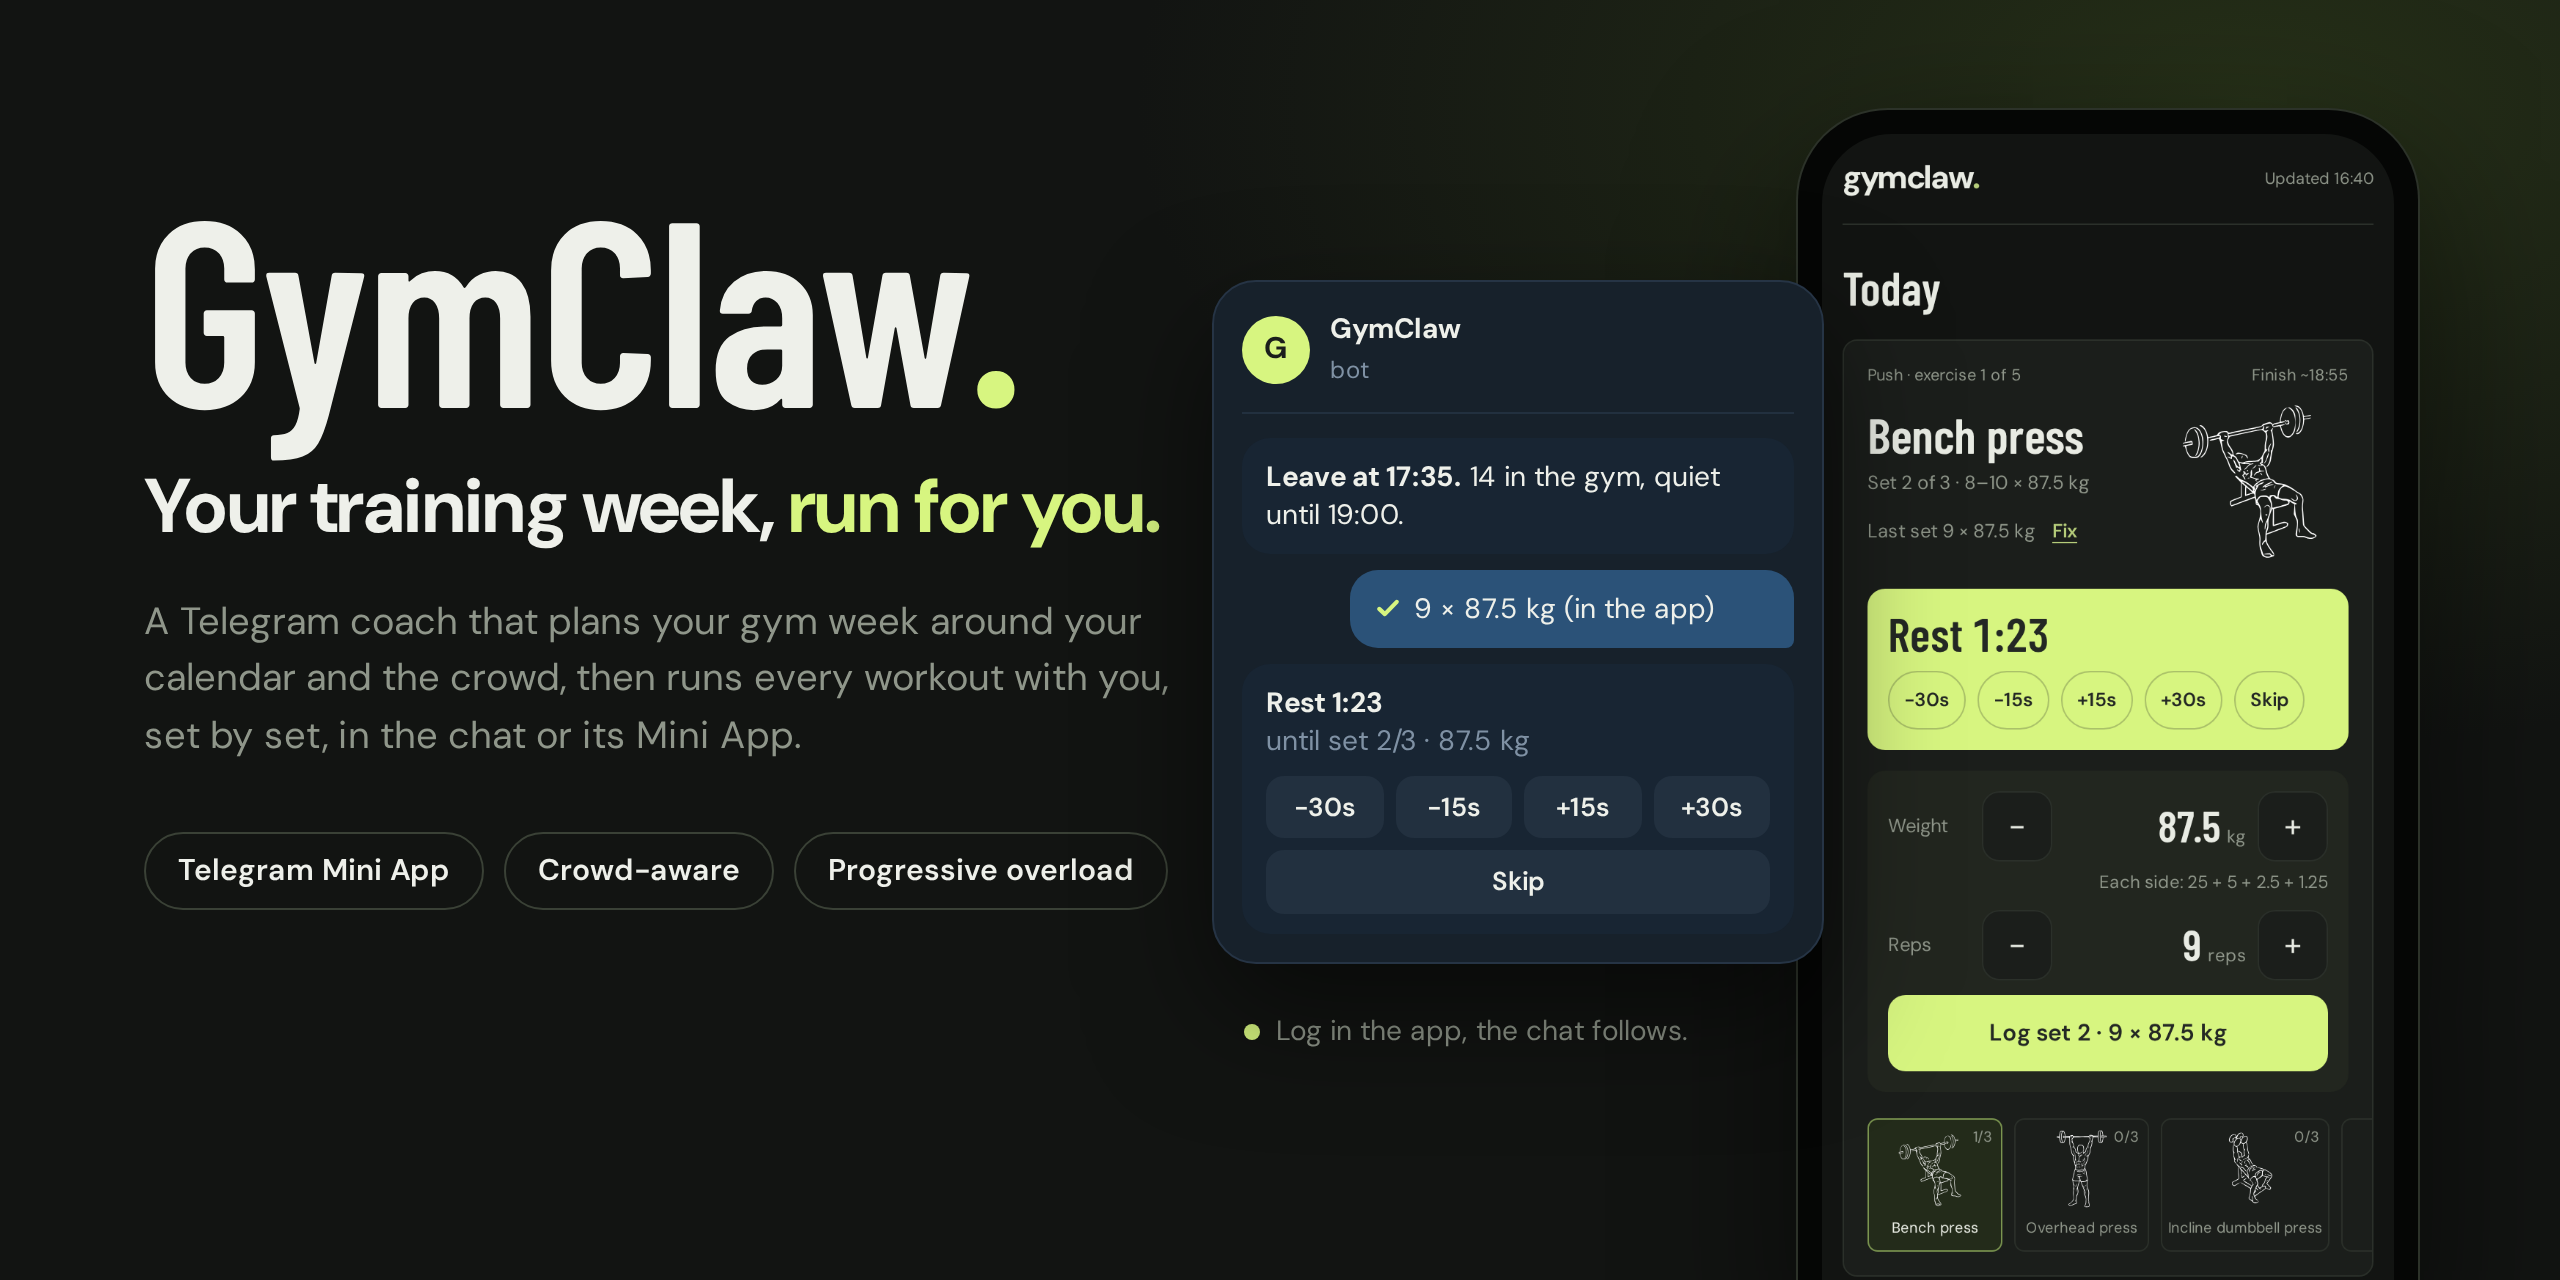
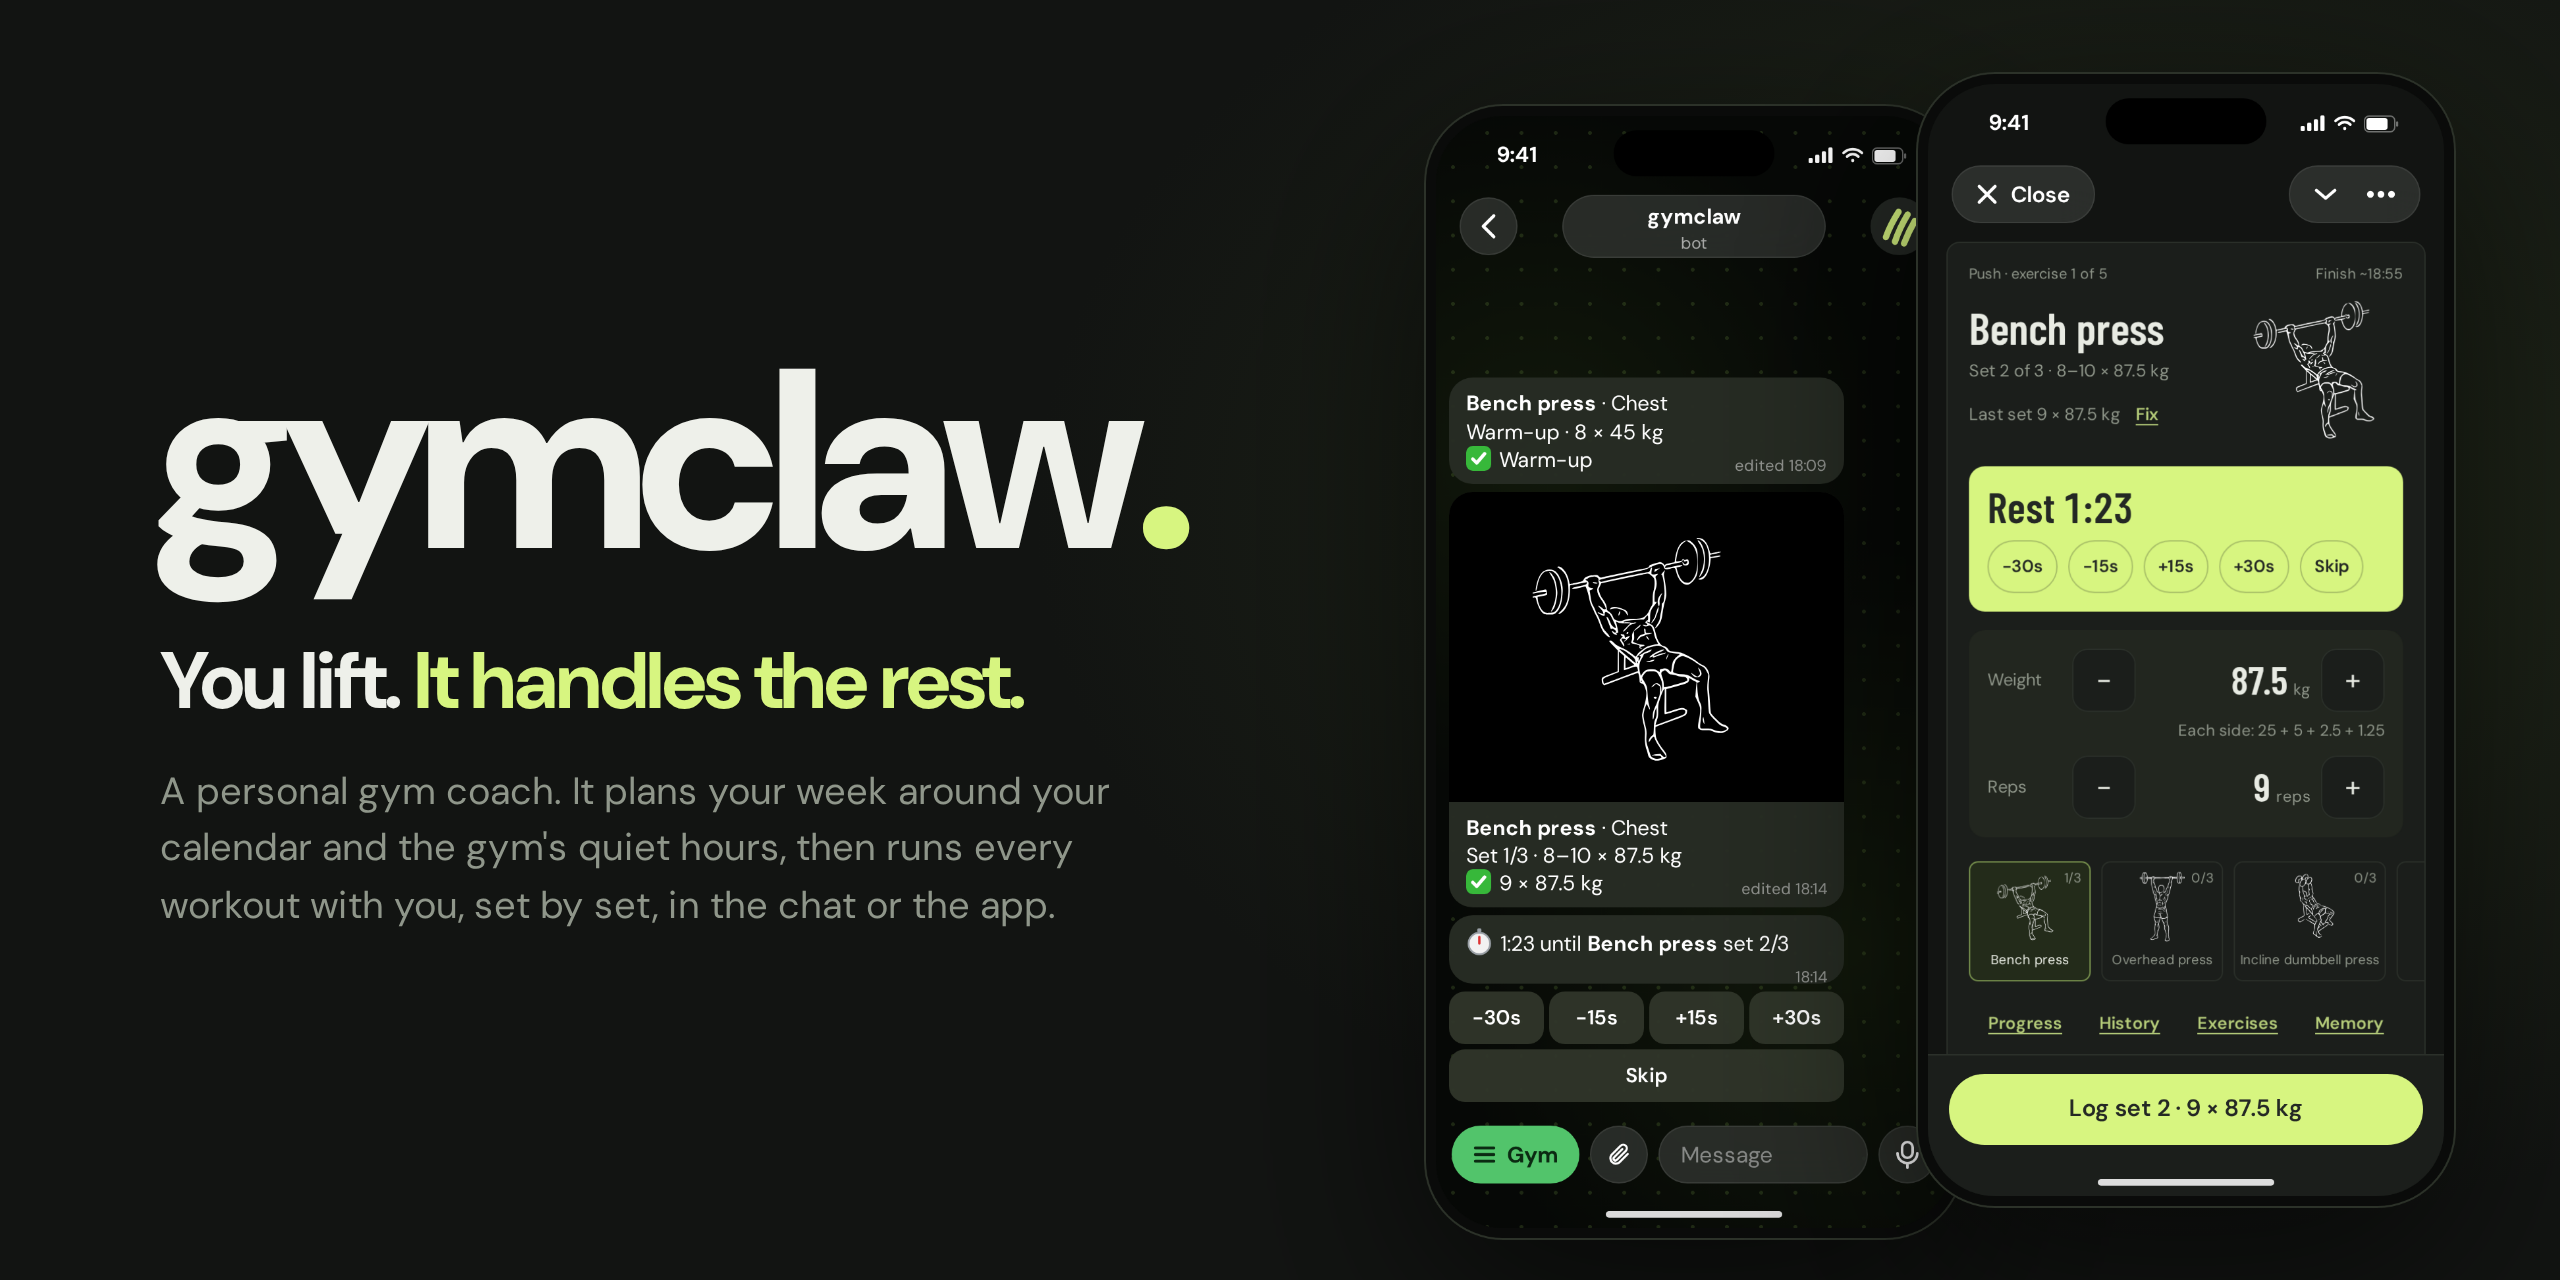
docs(readme): lowercase gymclaw, new tagline, real-looking phone screens
The banner and README screens now show the chat and the app as they look in
Telegram today (no browser header, Telegram's own Close and main button), with
the tagline "You lift. It handles the rest." scripts/shot gets --transparent.

Changed region(s): [[0.0625, 0.0625, 0.9688, 1.0], [0.75, 0.0312, 0.9688, 0.2188]]

diff --git a/assets/hero.html b/assets/hero.html
@@ -1,67 +1,34 @@
 <!doctype html>
 <!-- The README banner (assets/hero.png). Render it at 2x from the repo root:
      scripts/shot "file://$PWD/assets/hero.html" assets/hero.png 1280 640 --scale 2
-     The phone shows assets/screens/live.png, the README's own screenshot. -->
-<html lang="en"><head><meta charset="utf-8"><title>GymClaw Banner</title>
+     The phones are the README's own screens in assets/screens/. -->
+<html lang="en"><head><meta charset="utf-8"><title>gymclaw Banner</title>
 <style>
-@font-face { font-family: 'Barlow Condensed'; src: url('../web/fonts/BarlowCondensed-SemiBold.ttf'); font-weight: 600; }
 @font-face { font-family: 'DM Sans'; src: url('../web/fonts/DM-Sans.ttf'); font-weight: 100 900; }
-:root { --paper: #121412; --ink: #eef0ea; --muted: #8f968a; --line: #2b302a; --lime: #d7f580;
-  --tg: #17212b; --tg-bubble: #182533; --tg-out: #2b5278; --tg-button: #22303f; }
+:root { --paper: #121412; --ink: #eef0ea; --muted: #8f968a; --lime: #d7f580; }
 * { box-sizing: border-box; }
 html, body { margin: 0; width: 1280px; height: 640px; overflow: hidden; }
-body { position: relative; background: radial-gradient(900px 520px at 88% 8%, #263018 0%, transparent 62%), var(--paper);
-  color: var(--ink); font: 16px/1.4 'DM Sans', sans-serif; }
+body { position: relative; color: var(--ink); font: 16px/1.4 'DM Sans', sans-serif;
+  background: radial-gradient(760px 520px at 82% 40%, #222a19 0%, transparent 70%), var(--paper); }
 
-.copy { position: absolute; left: 72px; top: 92px; width: 520px; }
-.wordmark { font: 600 132px/0.9 'Barlow Condensed', sans-serif; letter-spacing: -1px; margin: 0; }
-.wordmark i { color: var(--lime); font-style: normal; }
-.tagline { font-size: 38px; font-weight: 700; letter-spacing: -0.8px; line-height: 1.1; margin: 22px 0 0; }
+.copy { position: absolute; left: 80px; top: 0; bottom: 0; width: 560px; display: flex; flex-direction: column; justify-content: center; }
+.wordmark { font-weight: 800; font-size: 128px; line-height: .9; letter-spacing: -6px; margin: 0 0 0 -6px; }
+.wordmark b { color: var(--lime); }
+.tagline { font-size: 40px; font-weight: 700; letter-spacing: -1px; line-height: 1.1; margin: 30px 0 0; }
 .tagline em { color: var(--lime); font-style: normal; }
-.lede { color: var(--muted); font-size: 19px; line-height: 1.5; margin: 22px 0 0; }
-.chips { display: flex; gap: 10px; margin-top: 34px; }
-.chips span { border: 1px solid #3a4136; border-radius: 99px; padding: 8px 16px; font-size: 15px; font-weight: 600; }
+.lede { color: var(--muted); font-size: 19px; line-height: 1.5; margin: 20px 0 0; max-width: 500px; }
 
-/* The Mini App, rising from the bottom edge. */
-.phone { position: absolute; right: 70px; top: 54px; width: 312px; height: 640px; padding: 12px 12px 0;
-  background: #050605; border: 1px solid #2c3229; border-bottom: 0; border-radius: 46px 46px 0 0;
-  box-shadow: 0 30px 80px rgba(0, 0, 0, .55); }
-.phone img { display: block; width: 100%; border-radius: 35px 35px 0 0; }
-
-/* The chat, in Telegram's dark theme, showing the same set the app just logged. */
-.chat { position: absolute; z-index: 2; left: 606px; top: 140px; width: 306px; padding: 14px; background: var(--tg);
-  border: 1px solid #263445; border-radius: 22px; box-shadow: 0 24px 60px rgba(0, 0, 0, .5); font-size: 14px; }
-.who { display: flex; align-items: center; gap: 10px; padding-bottom: 12px; margin-bottom: 12px; border-bottom: 1px solid #22303f; }
-.who b { width: 34px; height: 34px; border-radius: 50%; background: var(--lime); color: #1b1e1b; display: grid; place-items: center; font-size: 15px; }
-.who span { display: block; font-weight: 700; } .who small { color: #7f91a4; font-size: 12px; }
-.bubble { background: var(--tg-bubble); border-radius: 14px; padding: 10px 12px; margin-top: 8px; line-height: 1.35; }
-.tick { width: 14px; height: 14px; margin-right: 6px; vertical-align: -2px; fill: none; stroke: var(--lime); stroke-width: 2.4; stroke-linecap: round; stroke-linejoin: round; }
-.bubble .meta { color: #7f91a4; }
-.out { background: var(--tg-out); margin-left: 54px; border-bottom-right-radius: 4px; }
-.buttons { display: grid; grid-template-columns: 1fr 1fr; gap: 6px; margin-top: 8px; }
-.buttons.four { grid-template-columns: repeat(4, 1fr); } .buttons.one { grid-template-columns: 1fr; margin-top: 6px; }
-.buttons span { background: var(--tg-button); border-radius: 9px; padding: 7px 0; text-align: center; font-size: 13px; font-weight: 600; }
-.sync { position: absolute; left: 622px; top: 506px; color: var(--muted); font-size: 14px; display: flex; align-items: center; gap: 8px; }
-.sync i { width: 8px; height: 8px; border-radius: 50%; background: var(--lime); }
+.phone { position: absolute; height: 568px; filter: drop-shadow(0 30px 50px rgba(0, 0, 0, .6)); }
+.chat { left: 712px; top: 52px; }
+.app { left: 958px; top: 36px; }
 </style></head>
 <body>
   <div class="copy">
-    <h1 class="wordmark">GymClaw<i>.</i></h1>
-    <p class="tagline">Your training week, <em>run for you.</em></p>
-    <p class="lede">A Telegram coach that plans your gym week around your calendar and the crowd, then
-      runs every workout with you, set by set, in the chat or its Mini App.</p>
-    <div class="chips"><span>Telegram Mini App</span><span>Crowd-aware</span><span>Progressive overload</span></div>
+    <h1 class="wordmark">gymclaw<b>.</b></h1>
+    <p class="tagline">You lift. <em>It handles the rest.</em></p>
+    <p class="lede">A personal gym coach. It plans your week around your calendar and the gym's quiet
+      hours, then runs every workout with you, set by set, in the chat or the app.</p>
   </div>
-
-  <div class="chat">
-    <div class="who"><b>G</b><div><span>GymClaw</span><small>bot</small></div></div>
-    <div class="bubble"><b>Leave at 17:35.</b> 14 in the gym, quiet until 19:00.</div>
-    <div class="bubble out"><svg class="tick" viewBox="0 0 16 16"><path d="M3 8.5l3.2 3L13 4.5"/></svg>9 × 87.5 kg (in the app)</div>
-    <div class="bubble"><b>Rest 1:23</b><br><span class="meta">until set 2/3 · 87.5 kg</span>
-      <div class="buttons four"><span>−30s</span><span>−15s</span><span>+15s</span><span>+30s</span></div>
-      <div class="buttons one"><span>Skip</span></div></div>
-  </div>
-  <div class="sync"><i></i>Log in the app, the chat follows.</div>
-
-  <div class="phone"><img src="screens/live.png" alt=""></div>
+  <img class="phone chat" src="screens/chat.png" alt="">
+  <img class="phone app" src="screens/live.png" alt="">
 </body></html>

diff --git a/README.md b/README.md
@@ -1,11 +1,11 @@
-# GymClaw
+# gymclaw
 
 [![Tests](https://github.com/ignoxx/gymclaw/actions/workflows/tests.yml/badge.svg)](https://github.com/ignoxx/gymclaw/actions/workflows/tests.yml)
 [![License: BSL 1.1](https://img.shields.io/badge/license-BSL%201.1-blue)](LICENSE)
 
-A Telegram bot that plans my gym week around my calendar and coaches me through each workout.
+A personal gym coach that plans my week around my calendar and coaches me through each workout.
 
-![GymClaw: your training week, run for you](assets/hero.png)
+![gymclaw: you lift, it handles the rest](assets/hero.png)
 
 > **Work in progress.** I use it every day, and it has rough edges. Expect breaking changes.
 
@@ -19,13 +19,13 @@ A Telegram bot that plans my gym week around my calendar and coaches me through 
 - Raises targets when I hit all my reps, and sends a weekly recap every Sunday.
 - Tracks body weight from scale photos.
 
-It also runs as a Telegram Mini App: log sets with big steppers and plate math, and the chat card
-follows. Progress, history and the plans live there too.
+It runs in a chat, with an app one tap away: log a set there with steppers and plate math and the
+chat card updates. Progress, history and the plans live in the app too.
 
 <p align="center">
-  <img src="assets/screens/live.png" width="30%" alt="Mid-workout: rest timer and set logger">
+  <img src="assets/screens/chat.png" width="30%" alt="The chat mid-workout: exercise card and rest timer">
+  <img src="assets/screens/live.png" width="30%" alt="The app mid-workout: rest timer and set logger">
   <img src="assets/screens/progress.png" width="30%" alt="Progress: sessions per week and estimated 1RM">
-  <img src="assets/screens/history.png" width="30%" alt="History: past workouts and their sets">
 </p>
 
 ## How it works
